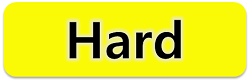
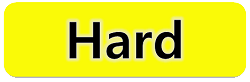
이미지 투명화

diff --git a/selectsinglescene.cpp b/selectsinglescene.cpp
@@ -99,11 +99,7 @@ Scene* SelectSingleScene::update()
         if (getGameClass()->getSingleDifficulty() == NONE)
             drawCenter( 400,380, "YouShouldChoose.png");
 
-<<<<<<< HEAD
 
-
-=======
->>>>>>> quiz
 
     if( BackButton.contains(lastCursor))
         drawCenter( 70, 70, "Back.png" );
@@ -241,8 +237,8 @@ void SelectSingleScene::clickButtonSoccer()
 void SelectSingleScene::clickButtonQuiz()
 {
 
-    nextScene= new soccerscene(getGameClass()); // quizscene
 
+    nextScene= new soccerscene(getGameClass()); // quizscene
 }
 
 void SelectSingleScene::clickBackButton(){

diff --git a/soccerscene.cpp b/soccerscene.cpp
@@ -49,7 +49,7 @@ soccerscene::soccerscene(Game* game) : Scene( game )
 
 Scene* soccerscene::update()
 {
-    if(life==0){
+    if(life==0&&enable){
         getGameClass()->setScore(score);
         if(mode==SINGLE)
             nextScene = new basketResultScene(getGameClass());
